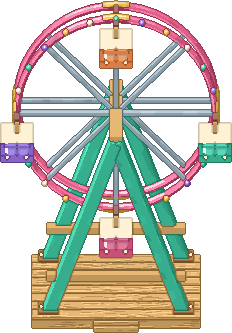
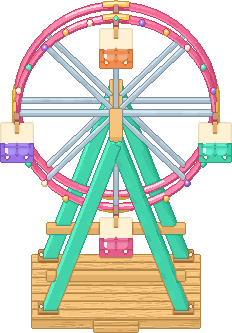
遊具の色を昼の光に合わせて明るくする

diff --git a/tools/art/handoff3d/render.py b/tools/art/handoff3d/render.py
@@ -280,6 +280,18 @@ def palette(images, threshold=12):
     return frames
 
 
+def daylight(pixels):
+    """昼の散乱光を足す。色相と彩度を保ち、強い光沢は白飛びさせない。"""
+    result = pixels.copy()
+    visible = result[..., 3] > 0
+    rgb = result[visible, :3].astype(float)
+    value = rgb.max(axis=1)
+    filled = np.interp(value, (0, 48, 96, 144, 192, 224, 255),
+                       (0, 65, 132, 190, 225, 245, 255))
+    result[visible, :3] = np.rint(rgb*(filled/np.maximum(value, 1))[:, None])
+    return result
+
+
 def rides(out, metadata):
     comparisons = []
     for name, make in MODELS.items():
@@ -299,6 +311,7 @@ def rides(out, metadata):
         broken, broken_offset, _ = render(model, RIDE_EXT, ground, parallel=True)
         assert broken_offset == offset
         *frames, damaged = palette(images+[broken])
+        frames = [daylight(frame) for frame in frames]
         stable = np.logical_and.reduce([(frame == frames[0]).all(axis=2)
                                         for frame in frames])
         still = Image.fromarray(np.where(stable[..., None], frames[0], 0))

diff --git a/handoff/from-gpt.md b/handoff/from-gpt.md
@@ -6,6 +6,8 @@
 
 ### H-1 遊園地の遊具
 
+- 昼の散乱光を足して、正常な遊具の木の床、支柱、座席の影を明るくした。明るさの平均は0〜255の尺度で14〜24上がった。彩度の平均は0.002未満の差。壊れた絵は修理された物と区別できるように前の明るさにした。
+
 - 遊具のピンク、すみれ色、青緑、黄、だいだいを鮮やかにした。空中ブランコは黄みのある細い丸ひも2本を座席の留め具につないだ。回転に合わせて座席が外を向く。座席がついたひもは張り、切れたひもは先が曲がる。
 
 - 回転木馬の屋根に3色の布と小旗、馬に色違いの鞍とたてがみを付けた。カップはピンクとすみれ色の釉薬、空中ブランコは色違いの座席、観覧車は4色のゴンドラと輪の小さな飾り灯にした。
@@ -24,7 +26,7 @@
 | 観覧車 | `(99,-186)`, `(0,-91)`, `(-99,-186)`, `(0,-280)` |
 
 - 全16コマの座席の位置、絵の左上と大きさは [sprites.json](files/H-1/sprites.json)。`rideAng` に `phase_factor` をかけた角度を1周16等分してコマを選び、同じコマの `seats[コマ][座席番号]` を `windRidePose` に使う。前後の描画順は、実際にせいれいを乗せるときに確認する。
-- 8まいの見本を `chipcheck.py` で確認。35〜100色、半透明0。64色以内の絵ではにた色0組。輪郭が2ドット以上の所は4〜397、孤立ドットは152〜438。色数、輪郭、細い線の点に目安を超える所がある。
+- 8まいの見本を `chipcheck.py` で確認。35〜100色、半透明0。64色以内の絵ではにた色0〜5組。輪郭が2ドット以上の所は2〜397、孤立ドットは152〜415。色数、輪郭、細い線の点に目安を超える所がある。
 - [仮の絵との比較](files/H-1/cmp_x4.png) ・ [遊具の設計図](../tools/art/handoff3d/rides.py)
 
 ゲームのマップでの確認とチップへの登録は、絵の確認のあと。
